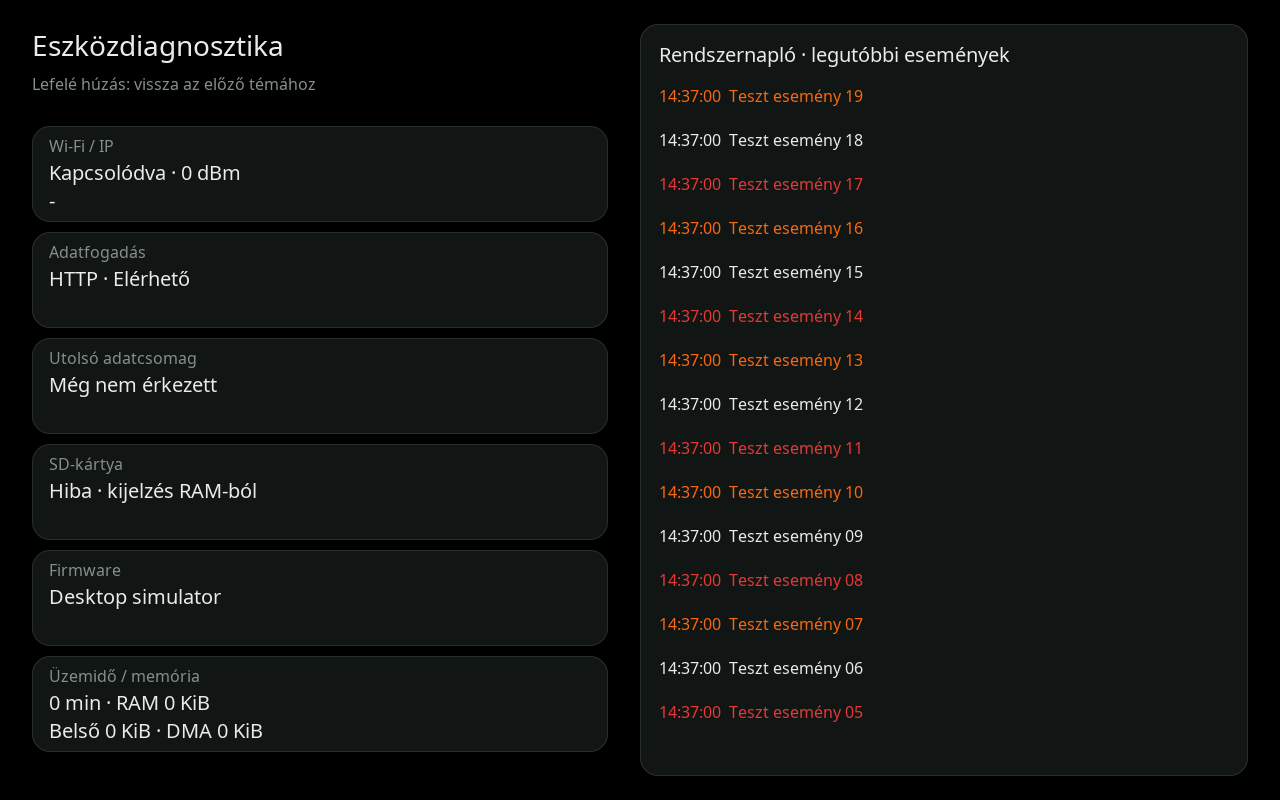
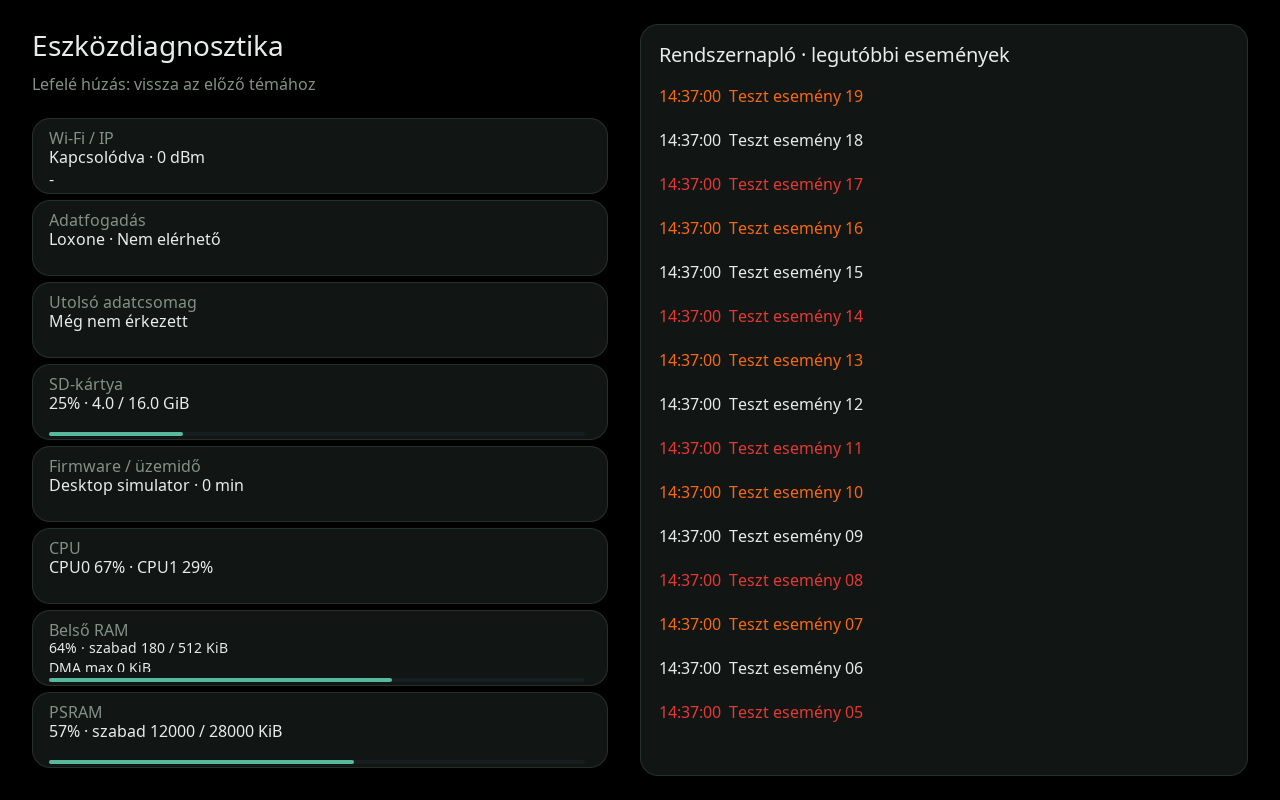
Add device load diagnostics, proactive Loxone token renewal and scoped v2.0.0 release

Changed region(s): [[0.0312, 0.1562, 0.4688, 0.625], [0.0312, 0.6562, 0.4688, 0.9688]]

diff --git a/main/app_loxone.c b/main/app_loxone.c
@@ -22,6 +22,7 @@
 #include "mbedtls/platform_util.h"
 #include <math.h>
 #include <stdatomic.h>
+#include <time.h>
 #include <stdio.h>
 #include <stdlib.h>
 #include <string.h>
@@ -55,7 +56,7 @@ static char s_salt[17];
 static char *s_public_key;
 static lx_values_t s_values;
 static const lx_config_t *s_session_config;
-static int64_t s_last_response;
+static int64_t s_last_response,s_token_refresh_us;
 
 static void status(const char *message)
 {
@@ -161,6 +162,7 @@ static cJSON *reply(const char *command,bool encrypt)
     int64_t deadline=esp_timer_get_time()+LX_TIMEOUT_MS*1000LL;
     while(!s_dead&&esp_timer_get_time()<deadline) {
         message_t m;if(xQueueReceive(s_messages,&m,pdMS_TO_TICKS(100))!=pdTRUE)continue;
+        s_last_response=esp_timer_get_time();
         if(m.type!=0){if(s_session_config&&!lx_values_update(&s_values,s_session_config,m.type,m.data,m.length))s_dead=true;free_message(&m);continue;}
         cJSON *root=cJSON_ParseWithLength((char*)m.data,m.length);free_message(&m);
         cJSON *ll=cJSON_GetObjectItemCaseSensitive(root,"LL");
@@ -215,6 +217,11 @@ static bool hash_hmac(const cJSON *key,const char *input,char out[65])
     if(ok)hex(digest,mbedtls_md_get_size(md),out);
     mbedtls_platform_zeroize(k,sizeof(k));return ok;
 }
+static void schedule_token_refresh(const cJSON *value){
+    const cJSON *until=cJSON_GetObjectItemCaseSensitive(value,"validUntil");
+    int64_t valid_until=cJSON_IsNumber(until)&&until->valuedouble>0&&until->valuedouble<1e12?(int64_t)until->valuedouble:0;
+    s_token_refresh_us=esp_timer_get_time()+lx_token_refresh_delay_us(valid_until,(int64_t)time(NULL));
+}
 static bool acquire_token(const lx_config_t *cfg,char *token,size_t token_size)
 {
     phase("Loxone felhasználói hitelesítési kulcs");
@@ -238,7 +245,7 @@ static bool acquire_token(const lx_config_t *cfg,char *token,size_t token_size)
             mac[0],mac[1],mac[2],mac[3],mac[4],mac[5]);
         phase("Loxone felhasználói bejelentkezés");
         cJSON *v=reply(command,true);const char *t=string(v,"token");
-        ok=*t&&strlen(t)<token_size;if(ok)snprintf(token,token_size,"%s",t);cJSON_Delete(v);
+        ok=*t&&strlen(t)<token_size;if(ok){snprintf(token,token_size,"%s",t);schedule_token_refresh(v);}cJSON_Delete(v);
     }free(user);return ok;
 }
 static bool token_command(const lx_config_t *cfg,char *token,const char *operation)
@@ -251,7 +258,12 @@ static bool token_command(const lx_config_t *cfg,char *token,const char *operati
     char cmd[768];snprintf(cmd,sizeof(cmd),"%s%s/%s/%s",strcmp(operation,"authwithtoken")==0?"":"jdev/sys/",operation,hmac,user);free(user);
     cJSON *v=reply(cmd,true);ok=v!=NULL;
     if(ok&&strcmp(operation,"refreshjwt")==0){const char *t=string(v,"token");ok=*t&&strlen(t)<1024;if(ok)snprintf(token,1024,"%s",t);}
+    if(ok&&strcmp(operation,"killtoken")!=0)schedule_token_refresh(v);
     cJSON_Delete(v);return ok;
+}
+static bool renew_token(const lx_config_t *cfg,char token[1024]){
+    if(token_command(cfg,token,"refreshjwt"))return true;
+    return !s_dead&&acquire_token(cfg,token,1024);
 }
 static bool download_catalog(int *response_code)
 {
@@ -467,7 +479,7 @@ static void worker(void *arg)
         if(!ack){status("Az állapotfrissítés nem engedélyezhető.");goto retry;}cJSON_Delete(ack);
         xSemaphoreTake(s_lock,portMAX_DELAY);s_busy=false;xSemaphoreGive(s_lock);
         app_state_set_loxone(true,true);status("Kapcsolódva. Várakozás a szükséges kezdőértékekre...");
-        s_last_response=esp_timer_get_time();int64_t heartbeat=s_last_response,last_sample=0,refresh=s_last_response;
+        s_last_response=esp_timer_get_time();int64_t heartbeat=s_last_response,last_sample=0;
         failures=0;
         while(!s_dead&&app_wifi_is_connected()&&uxQueueMessagesWaiting(s_requests)==0) {
             message_t m;int64_t now=esp_timer_get_time();
@@ -478,10 +490,10 @@ static void worker(void *arg)
             }
             if(now-heartbeat>=LX_KEEPALIVE_US){if(!send_plain("keepalive"))break;heartbeat=now;}
             if(now-s_last_response>=LX_KEEPALIVE_US*3)break;
-            if(now-refresh>=3600000000LL) {
+            if(now>=s_token_refresh_us) {
                 /* A válaszban kapott új JWT lesz a következő kapcsolódás hitelesítője. */
-                if(!token_command(active,token,"refreshjwt"))break;
-                refresh=now;
+                if(!renew_token(active,token))break;
+                status("Kapcsolódva. A token megújítva.");
             }
             if(now-last_sample>=5000000LL&&now-s_last_response<LX_KEEPALIVE_US*3) {
                 cJSON *payload=lx_values_payload(&s_values,active);

diff --git a/main/app_web.c b/main/app_web.c
@@ -806,6 +806,13 @@ static esp_err_t diagnostics_get(httpd_req_t *req){
     cJSON_AddBoolToObject(o,"sd_ok",d.runtime.sd_ok);cJSON_AddBoolToObject(o,"time_synced",d.runtime.time_synced);
     if(d.packet_age_seconds<0)cJSON_AddNullToObject(o,"packet_age_seconds");else cJSON_AddNumberToObject(o,"packet_age_seconds",d.packet_age_seconds);
     cJSON_AddStringToObject(o,"firmware",d.firmware);cJSON_AddNumberToObject(o,"uptime_seconds",d.uptime_seconds);
+    if(d.cpu_valid){cJSON_AddNumberToObject(o,"cpu0_percent",d.cpu_percent[0]);cJSON_AddNumberToObject(o,"cpu1_percent",d.cpu_percent[1]);}
+    else {cJSON_AddNullToObject(o,"cpu0_percent");cJSON_AddNullToObject(o,"cpu1_percent");}
+    cJSON_AddNumberToObject(o,"total_internal_kib",d.total_internal_kib);
+    cJSON_AddNumberToObject(o,"total_psram_kib",d.total_psram_kib);cJSON_AddNumberToObject(o,"free_psram_kib",d.free_psram_kib);
+    if(d.sd_space_valid){cJSON_AddNumberToObject(o,"sd_total_bytes",d.sd_total_bytes);cJSON_AddNumberToObject(o,"sd_free_bytes",d.sd_free_bytes);
+        cJSON_AddNumberToObject(o,"sd_used_percent",(double)(d.sd_total_bytes-d.sd_free_bytes)*100/d.sd_total_bytes);}
+    else{cJSON_AddNullToObject(o,"sd_total_bytes");cJSON_AddNullToObject(o,"sd_free_bytes");cJSON_AddNullToObject(o,"sd_used_percent");}
     cJSON_AddNumberToObject(o,"free_heap_kib",d.free_heap_kib);
     cJSON_AddNumberToObject(o,"free_internal_kib",d.free_internal_kib);
     cJSON_AddNumberToObject(o,"largest_dma_block_bytes",d.largest_dma_block_bytes);
@@ -819,10 +826,10 @@ static esp_err_t diagnostics_page(httpd_req_t *req){
     return httpd_resp_sendstr(req,"<!doctype html><html><meta charset='utf-8'><title>Diagnostics</title>"
         "<style>body{font:18px system-ui;max-width:850px;margin:40px auto;background:#eef4f7}table{width:100%;background:white;border-radius:16px;padding:18px}td{padding:12px}</style>"
         "<a href='/'>← Eszköz / Device</a> · <a href='/templates'>Sablonok / Templates</a><h1>Diagnosztika / Diagnostics</h1><table id='values'></table>"
-        "<script>const names={wifi_connected:'Wi-Fi',ip:'IP',rssi_dbm:'RSSI (dBm)',data_mode:'Adatforrás / Input',data_ready:'Adatkapcsolat / Input ready',"
+        "<script>const names={cpu0_percent:'CPU0 (%)',cpu1_percent:'CPU1 (%)',total_internal_kib:'Belső RAM összesen (KiB)',total_psram_kib:'PSRAM összesen (KiB)',free_psram_kib:'PSRAM szabad (KiB)',sd_total_bytes:'SD összesen (bájt)',sd_free_bytes:'SD szabad (bájt)',sd_used_percent:'SD foglaltság (%)',wifi_connected:'Wi-Fi',ip:'IP',rssi_dbm:'RSSI (dBm)',data_mode:'Adatforrás / Input',data_ready:'Adatkapcsolat / Input ready',"
         "mqtt_connected:'MQTT',sd_ok:'SD',time_synced:'NTP',packet_age_seconds:'Csomag kora (s) / Packet age (s)',firmware:'Firmware',uptime_seconds:'Üzemidő (s) / Uptime (s)',free_heap_kib:'Szabad memória (KiB) / Free memory (KiB)',free_internal_kib:'Szabad belső RAM (KiB) / Free internal RAM (KiB)',largest_dma_block_bytes:'Legnagyobb DMA-blokk (bájt) / Largest DMA block (bytes)'};"
         "async function refresh(){try{let r=await fetch('/api/diagnostics',{cache:'no-store'});if(!r.ok)throw Error(r.status);let data=await r.json(),table=document.getElementById('values');table.replaceChildren();"
-        "for(let [k,v] of Object.entries(data)){let row=table.insertRow();row.insertCell().textContent=names[k]||k;row.insertCell().textContent=v===null?'—':v;}}catch(e){document.getElementById('values').textContent='Kapcsolati hiba / Connection failed';}}"
+        "for(let [k,v] of Object.entries(data)){let row=table.insertRow();row.insertCell().textContent=names[k]||k;let cell=row.insertCell();cell.textContent=v===null?'—':v;if(k==='sd_used_percent'&&v!==null){let bar=document.createElement('progress');bar.max=100;bar.value=v;bar.style.width='100%';cell.append(bar);}}}catch(e){document.getElementById('values').textContent='Kapcsolati hiba / Connection failed';}}"
         "refresh();setInterval(refresh,3000);</script></html>");
 }
 

diff --git a/tests/preview/preview.c b/tests/preview/preview.c
@@ -891,6 +891,10 @@ int main(void)
     snprintf(config.project.language,sizeof(config.project.language),"hu");app_ui_set_config(&config);
     app_events_init();
     for(int i=0;i<20;i++)app_events_add(i%3,"Teszt esemény %02d",i);
+    assert(app_diagnostics_cpu_percent(0,2000000)==100);
+    assert(app_diagnostics_cpu_percent(1000000,2000000)==50);
+    assert(app_diagnostics_cpu_percent(2000001,2000000)==0);
+    assert(app_diagnostics_cpu_percent(0,0)==0);
     s_diagnostics_requested=true;diagnostics_capture();
     render_runtime(rt,sample,true,31000000);assert(s_view==VIEW_DIAGNOSTICS);
     assert(s_diagnostic_event_count==15);
@@ -898,11 +902,17 @@ int main(void)
     assert(strstr(lv_label_get_text(s_diagnostic_log[14]),"05"));
     lv_obj_update_layout(s_screen);
     assert(lv_obj_get_x(lv_obj_get_parent(s_diagnostic_log[0]))==640);
-    for(int i=0;i<6;i++){
+    for(int i=0;i<8;i++){
         lv_area_t row,parent;lv_obj_get_coords(s_diagnostic_values[i],&row);
         lv_obj_get_coords(lv_obj_get_parent(s_diagnostic_values[i]),&parent);
         assert(row.y2<parent.y2&&row.x2<parent.x2);
     }
+    rt.data_recept_mode=APP_DATA_LOXONE;s_diagnostics.cpu_valid=true;s_diagnostics.cpu_percent[0]=67;s_diagnostics.cpu_percent[1]=29;
+    s_diagnostics.total_internal_kib=512;s_diagnostics.free_internal_kib=180;
+    s_diagnostics.total_psram_kib=28000;s_diagnostics.free_psram_kib=12000;
+    s_diagnostics.sd_space_valid=true;s_diagnostics.sd_total_bytes=16ULL*1024*1024*1024;s_diagnostics.sd_free_bytes=12ULL*1024*1024*1024;rt.sd_ok=true;
+    render_runtime(rt,sample,true,31000000);assert(strstr(lv_label_get_text(s_diagnostic_values[1]),"Loxone"));
+    assert(lv_bar_get_value(s_diagnostic_bars[0])==25);assert(strstr(lv_label_get_text(s_diagnostic_values[5]),"67%"));
     save_frame("diagnostics-common");
     s_diagnostics_requested=false;render_runtime(rt,sample,true,31000000);assert(s_view==VIEW_DASHBOARD);
     if(getenv("ZOLEE_TEMPLATE_ROOT")){
@@ -966,6 +976,10 @@ int main(void)
                     assert(temperature_shadow);template_update(&sample,&fixture);
                 }
                 if(!strcmp(list[i].id,"09-solar-journey")){
+                    app_energy_sample_t fractional=sample;fractional.battery_temperature_c=32.6;template_update(&fractional,&fixture);
+                    for(unsigned n=0;n<template_node_count;n++)if(!strcmp(ts(template_nodes[n].spec,"source"),"battery_temp")&&!strcmp(ts(template_nodes[n].spec,"type"),"value")){
+                        assert(strstr(lv_label_get_text(template_nodes[n].obj),"33"));assert(!strchr(lv_label_get_text(template_nodes[n].obj),'.'));assert(!strchr(lv_label_get_text(template_nodes[n].obj),','));}
+                    template_update(&sample,&fixture);
                     sample.sun_position_valid=true;sample.sun_altitude_deg=night?-25:25;
                     sample.sunrise_minute=420;sample.sunset_minute=1080;sample.sun_azimuth_deg=220;
                     sample.has_sun_radiation=false;sample.power_pv_kw=night?0:3.5;

diff --git a/tools/release/auto_release.py b/tools/release/auto_release.py
@@ -1,5 +1,5 @@
 #!/usr/bin/env python3
-"""Create one complete, patch-versioned release per merged main PR."""
+"""Create one complete release per merged main PR, including scoped major promotions."""
 import argparse
 import json
 import os
@@ -27,12 +27,17 @@ def next_tag(tags, releases):
     return validate_tag(f'v{major}.{minor}.{patch + 1}')
 
 
-def tag_for_merged_pr(repository, number, tags, releases):
-    """One-time major promotion for the approved #9 PR; no other merge changes policy.
+def tag_for_merged_pr(repository, number, tags, releases, head=None):
+    """Scoped major promotions for the approved v1 and direct-Loxone releases.
 
-    The request is scoped to the actual project and exact PR identity.
-    A preexisting v1.0.0 (or newer stable tag) must never be overwritten.
+    Existing release versions are never overwritten; other PRs increment patch.
     """
+    if repository == 'ZoleeBB/ZoleeEnergyFlowDisplay' and head == 'feature/loxone-direct':
+        versions=[stable_version(t.get('name')) for t in tags]
+        versions += [stable_version(r.get('tag_name')) or stable_version(r.get('name')) for r in releases if not r.get('prerelease')]
+        if any(v is not None and v >= (2,0,0) for v in versions):
+            raise ValueError('Cannot assign v2.0.0: stable v2.0.0 or newer already exists')
+        return validate_tag('v2.0.0')
     if repository != 'ZoleeBB/ZoleeEnergyFlowDisplay' or number != 9:
         return next_tag(tags, releases)
     versions = [stable_version(t.get('name')) for t in tags]
@@ -68,6 +73,7 @@ def verify_merge(root, repository, number, commit):
     if (not pr['merged'] or pr['base']['ref'] != 'main' or
             pr['base']['repo']['full_name'] != repository or pr['merge_commit_sha'] != commit):
         raise ValueError('Only the verified, merged main PR commit may be released')
+    return pr
 
 
 def find_release(releases, marker):
@@ -111,7 +117,7 @@ def reserve_tag(root, tag, marker, commit):
 def prepare(repository, number, commit):
     root = f'https://api.github.com/repos/{repository}'
     marker = identity(number, commit)
-    verify_merge(root, repository, number, commit)
+    merged_pr=verify_merge(root, repository, number, commit)
     releases = listing(root, 'releases')
     existing = find_release(releases, marker)
     if existing:
@@ -127,7 +133,10 @@ def prepare(repository, number, commit):
                 and owned_tag(root, tag['name'], marker, commit)]
     if len(reserved) > 1:
         raise ValueError('Multiple versions reserved for the same merge')
-    return {'tag': reserved[0] if reserved else tag_for_merged_pr(repository, number, tags, releases),
+    head=merged_pr.get('head') or {}
+    source_repo=head.get('repo') or {}
+    promoted_head=head.get('ref') if source_repo.get('full_name')==repository else None
+    return {'tag': reserved[0] if reserved else tag_for_merged_pr(repository, number, tags, releases, promoted_head),
             'needed': 'true'}
 
 

diff --git a/main/app_diagnostics.c b/main/app_diagnostics.c
@@ -7,6 +7,37 @@
 #include "esp_app_desc.h"
 #include "esp_system.h"
 #include "esp_heap_caps.h"
+#include "app_storage.h"
+#include "freertos/FreeRTOS.h"
+#include "freertos/task.h"
+#include <stdatomic.h>
+#endif
+#ifndef APP_TEMPLATE_DESKTOP
+static atomic_flag s_cpu_busy=ATOMIC_FLAG_INIT;
+static portMUX_TYPE s_cpu_lock=portMUX_INITIALIZER_UNLOCKED;
+static int64_t s_cpu_time;
+static uint64_t s_idle[2];
+static unsigned s_cpu[2];
+static bool s_cpu_valid;
+static void cpu_capture(app_diagnostics_t *out,int64_t now){
+    if(!atomic_flag_test_and_set(&s_cpu_busy)){
+        if(!s_cpu_time||now-s_cpu_time>=2000000LL){
+            unsigned load[2]={0};uint64_t idle[2];
+            for(int core=0;core<2;core++){
+                TaskStatus_t info;vTaskGetInfo(xTaskGetIdleTaskHandleForCore(core),&info,pdFALSE,eInvalid);
+                idle[core]=info.ulRunTimeCounter;
+                if(s_cpu_time){uint64_t elapsed=now-s_cpu_time,delta=idle[core]-s_idle[core];
+                    load[core]=app_diagnostics_cpu_percent(delta,elapsed);}
+            }
+            portENTER_CRITICAL(&s_cpu_lock);
+            for(int core=0;core<2;core++){s_idle[core]=idle[core];s_cpu[core]=load[core];}
+            s_cpu_valid=s_cpu_time!=0;s_cpu_time=now;portEXIT_CRITICAL(&s_cpu_lock);
+        }
+        atomic_flag_clear(&s_cpu_busy);
+    }
+    portENTER_CRITICAL(&s_cpu_lock);out->cpu_valid=s_cpu_valid;
+    memcpy(out->cpu_percent,s_cpu,sizeof(s_cpu));portEXIT_CRITICAL(&s_cpu_lock);
+}
 #endif
 void app_diagnostics_capture(app_diagnostics_t *out){
     memset(out,0,sizeof(*out));app_state_get_runtime(&out->runtime);
@@ -18,6 +49,11 @@ void app_diagnostics_capture(app_diagnostics_t *out){
     snprintf(out->firmware,sizeof(out->firmware),"Desktop simulator");
 #else
     snprintf(out->firmware,sizeof(out->firmware),"%.32s",esp_app_get_description()->version);
+    cpu_capture(out,now);
+    out->sd_space_valid=app_storage_space(&out->sd_total_bytes,&out->sd_free_bytes);
+    out->total_internal_kib=heap_caps_get_total_size(MALLOC_CAP_INTERNAL|MALLOC_CAP_8BIT)/1024;
+    out->total_psram_kib=heap_caps_get_total_size(MALLOC_CAP_SPIRAM|MALLOC_CAP_8BIT)/1024;
+    out->free_psram_kib=heap_caps_get_free_size(MALLOC_CAP_SPIRAM|MALLOC_CAP_8BIT)/1024;
     out->free_heap_kib=esp_get_free_heap_size()/1024;
     out->free_internal_kib=heap_caps_get_free_size(MALLOC_CAP_INTERNAL|MALLOC_CAP_8BIT)/1024;
     out->largest_dma_block_bytes=heap_caps_get_largest_free_block(MALLOC_CAP_INTERNAL|MALLOC_CAP_DMA);

diff --git a/tests/test_loxone_protocol.c b/tests/test_loxone_protocol.c
@@ -49,6 +49,7 @@ esp_err_t esp_http_client_cleanup(esp_http_client_handle_t h){(void)h;return ESP
 static mbedtls_pk_context server_key;
 static char last_command[4096],previous_salt[17];
 static int catalog_mode;
+static bool reject_refresh;
 static const char *catalog_reply="{\"controls\":{\"pv\":{\"name\":\"PV\",\"type\":\"InfoOnlyAnalog\",\"states\":{\"value\":\"11223344-5566-7788-99aabbccddeeff00\"}}}}";
 static void frame(const unsigned char *data,size_t length,int opcode,bool fin)
 {
@@ -96,6 +97,7 @@ int esp_websocket_client_send_text(esp_websocket_client_handle_t h,const char *t
             else if(catalog_mode==2)s_dead=true;
             else if(catalog_mode==0)server_response(catalog_reply);
         }
+        else if(strncmp(cmd,"jdev/sys/refreshjwt/",20)==0&&reject_refresh)server_response("{\"LL\":{\"Code\":401}}");
         else if(strncmp(cmd,"jdev/sys/refreshjwt/",20)==0)server_response("{\"LL\":{\"Code\":200,\"value\":{\"token\":\"jwt-refreshed-token\"}}}");
         else server_response("{\"LL\":{\"Code\":200,\"value\":\"OK\"}}");
         return len;
@@ -153,6 +155,10 @@ int main(int argc,char **argv)
     catalog_reply="{\"LL\":{\"Code\":403,\"value\":\"denied\"}}";calls=http_calls;assert(!download_catalog_with_fallback(&cfg,token));assert(http_calls==calls);
     free(large_catalog);http_fallback_mode=0;http_chunked=false;strcpy(cfg.username,"display");
     cJSON_Delete(s_catalog);s_catalog=NULL;
+    int64_t before_refresh=esp_timer_get_time();cJSON *expiry=cJSON_CreateObject();
+    cJSON_AddNumberToObject(expiry,"validUntil",(double)time(NULL)-1230768000+600);schedule_token_refresh(expiry);cJSON_Delete(expiry);
+    assert(s_token_refresh_us-before_refresh>299000000LL&&s_token_refresh_us-before_refresh<301000000LL);
+    reject_refresh=true;assert(renew_token(&cfg,token));assert(!s_dead);assert(strcmp(token,"jwt-test-token")==0);reject_refresh=false;
     assert(!reply("denied",false));assert(strstr(s_failure,"401"));
     /* A teljes HTTP-előlépés darabolt válasszal, valamint konkrét hibák. */
     cJSON *key_json=cJSON_CreateObject(),*ll=cJSON_CreateObject();cJSON_AddStringToObject(ll,"value",s_public_key);cJSON_AddItemToObject(key_json,"LL",ll);

diff --git a/main/app_storage.c b/main/app_storage.c
@@ -3,6 +3,7 @@
 #include <stdatomic.h>
 #include "bsp/esp-bsp.h"
 #include "sdmmc_cmd.h"
+#include "esp_vfs_fat.h"
 #include "esp_timer.h"
 #include "freertos/FreeRTOS.h"
 #include "freertos/semphr.h"
@@ -13,6 +14,19 @@
 static atomic_bool s_ok;
 static bool s_recovery_task_started;
 static SemaphoreHandle_t s_io_mutex;
+
+static portMUX_TYPE s_space_lock=portMUX_INITIALIZER_UNLOCKED;
+static uint64_t s_total_bytes,s_free_bytes;
+bool app_storage_space(uint64_t *total,uint64_t *free_bytes){
+    portENTER_CRITICAL(&s_space_lock);*total=s_total_bytes;*free_bytes=s_free_bytes;portEXIT_CRITICAL(&s_space_lock);
+    return app_storage_is_ok()&&*total>0&&*free_bytes<=*total;
+}
+/* Csak a háttértaskból, az SD-zár alatt, legfeljebb percenként. */
+static void update_space(void){
+    uint64_t total=0,available=0;
+    if(app_storage_is_ok()&&esp_vfs_fat_info(APP_SD_MOUNT_POINT,&total,&available)!=ESP_OK)total=available=0;
+    portENTER_CRITICAL(&s_space_lock);s_total_bytes=total;s_free_bytes=available;portEXIT_CRITICAL(&s_space_lock);
+}
 
 /* Az SD fájlműveletek és az unmount/mount nem futhatnak egymás mellett. */
 esp_err_t app_storage_lock(void)
@@ -47,7 +61,7 @@ bool app_storage_is_ok(void){return atomic_load(&s_ok);}
 static void recovery_task(void *arg)
 {
     (void)arg;
-    int64_t next_recovery=0;
+    int64_t next_recovery=0,next_space=0;
     while(true){
         if(app_storage_lock()==ESP_OK){
             int64_t now=esp_timer_get_time();
@@ -66,6 +80,7 @@ static void recovery_task(void *arg)
                     app_events_add(APP_EVENT_INFO,"SD-kártya kapcsolat helyreállt.");
                 }
             }
+            if(now>=next_space){update_space();next_space=now+60000000LL;}
             app_storage_unlock();
         }
         vTaskDelay(pdMS_TO_TICKS(5000));

diff --git a/tests/test_auto_release.py b/tests/test_auto_release.py
@@ -29,6 +29,12 @@ class AutomaticReleaseTests(unittest.TestCase):
         self.assertEqual(next_tag([{'name':'v1.9.99'},{'name':'v2.0.0'}],[]),'v2.0.1')
         self.assertEqual(next_tag([], [{'tag_name':'v1.0.8','name':'Draft','draft':True}]),'v1.0.9')
 
+    def test_loxone_major_release(self):
+        self.assertEqual(tag_for_merged_pr('ZoleeBB/ZoleeEnergyFlowDisplay',42,[{'name':'v1.4.9'}],[],head='feature/loxone-direct'),'v2.0.0')
+        self.assertEqual(tag_for_merged_pr('other/repo',42,[{'name':'v1.4.9'}],[],head='feature/loxone-direct'),'v1.4.10')
+        self.assertEqual(tag_for_merged_pr('ZoleeBB/ZoleeEnergyFlowDisplay',43,[{'name':'v2.0.0'}],[],head='fix/next'),'v2.0.1')
+        with self.assertRaises(ValueError):tag_for_merged_pr('ZoleeBB/ZoleeEnergyFlowDisplay',42,[{'name':'v2.0.0'}],[],head='feature/loxone-direct')
+
     def test_major_release_only_for_project_pr9(self):
         existing=[{'name':'v0.0.6'}]
         self.assertEqual(tag_for_merged_pr('ZoleeBB/ZoleeEnergyFlowDisplay',9,existing,[]),'v1.0.0')

diff --git a/main/app_diagnostics.h b/main/app_diagnostics.h
@@ -5,7 +5,16 @@ typedef struct {
     char ip[32], firmware[33];
     int rssi;
     int64_t packet_age_seconds, uptime_seconds;
+    bool cpu_valid,sd_space_valid;
+    unsigned cpu_percent[2];
+    uint64_t sd_total_bytes,sd_free_bytes;
+    unsigned total_internal_kib,total_psram_kib,free_psram_kib;
     unsigned free_heap_kib, free_internal_kib, largest_dma_block_bytes;
 } app_diagnostics_t;
 /* Rövid snapshot; nem olvas SD-t és nem tartja az LVGL zárat. */
 void app_diagnostics_capture(app_diagnostics_t *out);
+
+/* A mérési ablak foglaltsága; az idle számláló mintavételi eltérését levágjuk. */
+static inline unsigned app_diagnostics_cpu_percent(uint64_t idle,uint64_t elapsed){
+    return !elapsed||idle>=elapsed?0:100-(unsigned)(idle*100/elapsed);
+}

diff --git a/tests/test_loxone_model.c b/tests/test_loxone_model.c
@@ -10,6 +10,9 @@ static unsigned char uuid[16]={0x44,0x33,0x22,0x11,0x66,0x55,0x88,0x77,0x99,0xaa
 static void numeric(unsigned char *p,double v){memcpy(p,uuid,16);memcpy(p+16,&v,8);}
 int main(void)
 {
+    assert(lx_token_refresh_delay_us(0,1700000000)==3600000000LL);
+    assert(lx_token_refresh_delay_us(1700000000-1230768000+600,1700000000)==300000000LL);
+    assert(lx_token_refresh_delay_us(1700000000-1230768000-1,1700000000)==1000000LL);
     lx_config_t cfg;lx_config_defaults(&cfg);lx_values_t v={0};char id[LX_UUID_LEN];
     lx_uuid_string(uuid,id);assert(strcmp(id,"11223344-5566-7788-99aabbccddeeff00")==0);
     assert(lx_uuid_valid(id)&&!lx_uuid_valid("11223344-5566-7788-99aa-bbccddeeff00"));

diff --git a/main/app_ui.c b/main/app_ui.c
@@ -92,8 +92,9 @@ static int64_t s_last_chart_update_us;
 static app_stats_snapshot_t s_stats_snapshot;
 static app_stats_period_t s_week_period,s_month_period;
 static app_diagnostics_t s_diagnostics;
+static lv_obj_t *s_diagnostic_bars[3];
 static bool s_diagnostics_requested;
-static lv_obj_t *s_diagnostic_values[6],*s_diagnostic_log[15];
+static lv_obj_t *s_diagnostic_values[8],*s_diagnostic_log[15];
 /* A meglévő RAM-napló másolata; nem a runtime task vermén tároljuk. */
 static app_event_entry_t s_diagnostic_events[15];
 static size_t s_diagnostic_event_count;

diff --git a/main/app_loxone_model.h b/main/app_loxone_model.h
@@ -48,3 +48,6 @@ bool lx_values_update(lx_values_t *values, const lx_config_t *cfg, int type,
 cJSON *lx_values_payload(const lx_values_t *values, const lx_config_t *cfg);
 /* Korlátos, lapos katalógus. UUID, név, helyiség, kategória, típus, állapot. */
 cJSON *lx_catalog_parse(const char *json, size_t length);
+
+/* Előzetes megújítás: fél hátralévő élettartam, legfeljebb egy óra. */
+int64_t lx_token_refresh_delay_us(int64_t valid_until,int64_t now_epoch);
